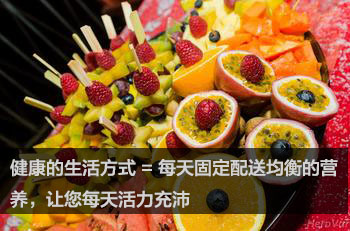
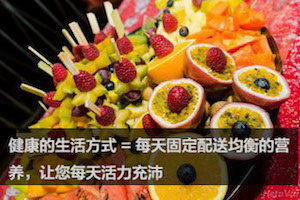
Added ads image slider

diff --git a/public/js/js-image-slider.js b/public/js/js-image-slider.js
@@ -1,0 +1,23 @@
+var sliderOptions=
+{
+	sliderId: "slider",
+	startSlide: 0,
+	effect: "series1",
+	effectRandom: false,
+	pauseTime: 2600,
+	transitionTime: 500,
+	slices: 12,
+	boxes: 8,
+	hoverPause: 1,
+	autoAdvance: true,
+	captionOpacity: 0.3,
+	captionEffect: "fade",
+	thumbnailsWrapperId: "thumbs",
+	m: false,
+	license: "b6t80"
+};
+
+var imageSlider=new mcImgSlider(sliderOptions);
+
+/* Menucool Javascript Image Slider v2014.1.4. Copyright www.menucool.com */
+function mcImgSlider(k){for(var T=function(a){return document.getElementById(a)},d="length",ab="getElementsByTagName",C=function(e){var a=e.childNodes,c=[];if(a)for(var b=0,f=a[d];b<f;b++)a[b].nodeType==1&&c.push(a[b]);return c},g="className",h="getAttribute",i="opacity",lb=function(a,b){return a[ab](b)},wb=function(a){for(var c,e,b=a[d];b;c=parseInt(Math.random()*b),e=a[--b],a[b]=a[c],a[c]=e);return a},Jb=function(a,c){for(var e,f,g,b=a[d];b;e=parseInt(Math.random()*b),f=a[--b],a[b]=a[e],a[e]=f,g=c[b],c[b]=c[e],c[e]=g);return[a,c]},Ib=function(a,c,b){if(a.addEventListener)a.addEventListener(c,b,false);else a.attachEvent&&a.attachEvent("on"+c,b)},Lb=document,U=window.requestAnimationFrame,db=window.cancelAnimationFrame,kb=["webkit","ms","o"],cb=0;cb<kb[d]&&!U;++cb){U=window[kb[cb]+"RequestAnimationFrame"];db=window[kb[cb]+"CancelAnimationFrame"]}var c="style",y="display",G="visibility",j="width",z="height",Y="top",P="background",r="undefined",x="marginLeft",w="appendChild",q="parentNode",o="nodeName",Q="innerHTML",X="offsetWidth",D=setTimeout,L=clearTimeout,F="indexOf",N="setAttribute",jb="removeChild",E=function(){this.d=[];this.b=null},sb=function(){var b=50,a=navigator.userAgent,c;if((c=a[F]("MSIE "))!=-1)b=parseInt(a.substring(c+5,a[F](".",c)));if(a[F]("Safari")!=-1&&a[F]("Chrome")==-1)b=300;if(a[F]("Opera")!=-1)b=400;return b},bb=sb()<9,ib=/Android|webOS|iPhone|iPad|iPod|BlackBerry|IEMobile|Opera Mini/i.test(navigator.userAgent),M=function(a,b){if(a){a.o=b;if(bb)a[c].filter="alpha(opacity="+b*100+")";else a[c][i]=b}};E.a={f:function(a){return-Math.cos(a*Math.PI)/2+.5},g:function(a){return a},h:function(b,a){return Math.pow(b,a*2)},j:function(b,a){return 1-Math.pow(1-b,a*2)}};E.prototype={k:{c:k.transitionTime,a:function(){},b:E.a.f,d:1},m:function(h,d,g,c){for(var b=[],j=g-d,k=g>d?1:-1,f=Math.ceil(60*c.c/1e3),a,e=1;e<=f;e++){a=d+c.b(e/f,c.d)*j;if(h!=i)a=Math.round(a);b.push(a)}b.e=0;return b},n:function(){this.b==null&&this.p()},p:function(){this.q();var a=this;this.b=U?U(function(){a.p()}):window.setInterval(function(){a.q()},15)},q:function(){var a=this.d[d];if(a){for(var c=0;c<a;c++)this.o(this.d[c]);while(a--){var b=this.d[a];if(b.d.e==b.d[d]){b.c();this.d.splice(a,1)}}}else{if(U&&db)db(this.b);else window.clearInterval(this.b);this.b=null}},o:function(a){if(a.d.e<a.d[d]){var e=a.b,b=a.d[a.d.e];if(a.b==i){if(bb){e="filter";b="alpha(opacity="+Math.round(b*100)+")"}}else b+="px";a.a[c][e]=b;a.d.e++}},r:function(e,b,d,f,a){a=this.s(this.k,a);var c=this.m(b,d,f,a);this.d.push({a:e,b:b,d:c,c:a.a});this.n()},s:function(c,b){b=b||{};var a,d={};for(a in c)d[a]=typeof b[a]!==r?b[a]:c[a];return d}};var l=new E,ob=function(){l.d=[];L(s);L(hb);s=hb=null},Gb=function(b){var a=[],c=b[d];while(c--)a.push(String.fromCharCode(b[c]));return a.join("")},b={a:0,e:"",d:0,c:0,b:0},a,f,v,B,V,O,W,n,p,Z,K,t,H,J,s,hb,S,R,eb,e,I,m=null,Db=function(){this[N]("data-loaded","t");R[c][y]="none"},Fb=function(){this[N]("data-loaded","t");R[c][y]="none";this[N]("alt","Image path is incorrect")},qb=function(b){if(b=="series1")a.a=[6,8,15,2,5,14,13,3,7,4,14,1,13,15];else if(b=="series2")a.a=[1,2,3,4,5,6,7,8,9,10,11,12,13,14,15,16,17];else a.a=b.split(/\W+/);a.a.p=k.effectRandom?-1:a.a[d]==1?0:1},fb=function(){a={b:k.pauseTime,c:k.transitionTime,f:k.slices,g:k.boxes,d:k.license,h:k.hoverPause,i:k.autoAdvance,j:k.captionOpacity,k:k.captionEffect=="none"?0:k.captionEffect=="fade"?1:2,l:k.thumbnailsWrapperId,Ob:function(){typeof beforeSlideChange!==r&&beforeSlideChange(arguments)},Oa:function(){typeof afterSlideChange!==r&&afterSlideChange(arguments)}};if(f)a.m=Math.ceil(f.offsetHeight*a.g/f[X]);qb(k.effect);a.n=function(){var b;if(a.a.p==-1)b=a.a[Math.floor(Math.random()*a.a[d])];else{b=a.a[a.a.p];a.a.p++;if(a.a.p>=a.a[d])a.a.p=0}if(b<1||b>17)b=15;return b}},zb=["$1$2$3","$1$2$3","$1$24","$1$23","$1$22"],tb=function(){if(b.b!=2){b.b=1;L(s);s=null}},pb=function(){if(b.b!=2){b.b=0;if(s==null&&!b.c&&a.i)s=D(function(){m.y(m.n(b.a+1),0,1)},a.b/2)}},Ab=function(){var a=0,b=0,c;while(a<e.length){c=e[a][g]=="lazyImage"||e[a][h]("data-src")||e[a][g][F](" video")>-1&&typeof McVideo!=r;if(c){b=1;break}++a}return b},u=[],rb=function(b){var a=u[d];if(a)while(a--)u[a][g]=a!=b&&u[a].on==0?"thumb":"thumb thumb-on"},Cb=function(a){return a[q][h]("data-autovideo")=="true"||a[h]("data-autovideo")=="true"},Eb=function(){var f;if(a.l)f=T(a.l);if(f)for(var h=lb(f,"*"),e=0;e<h[d];e++)h[e][g]=="thumb"&&u.push(h[e]);var c=u[d];if(c){while(c--){u[c].on=0;u[c].i=c;u[c].onclick=function(){m.y(this.i,Cb(this))};if(!ib){u[c].onmouseover=function(){this.on=1;this[g]="thumb thumb-on";a.h==2&&tb()};u[c].onmouseout=function(){this.on=0;this[g]=this.i==b.a?"thumb thumb-on":"thumb";a.h==2&&pb()}}}rb(0)}return c},mb=function(a,e,g,c,b,d,f){D(function(){if(e&&g==e-1){var f={};f.a=function(){m.o()};for(var h in a)f[h]=a[h]}else f=a;typeof b[j]!==r&&l.r(c,"width",b[j],d[j],a);typeof b[z]!==r&&l.r(c,"height",b[z],d[z],a);l.r(c,i,b[i],d[i],f)},f)},ub=function(a){f=a;this.Id=f.id;this.c()},xb=function(e,c){for(var b=[],a=0;a<e[d];a++)b[b[d]]=String.fromCharCode(e.charCodeAt(a)-(c?c:3));return b.join("")},yb=[/(?:.*\.)?(\w)([\w\-])[^.]*(\w)\.[^.]+$/,/.*([\w\-])\.(\w)(\w)\.[^.]+$/,/^(?:.*\.)?(\w)(\w)\.[^.]+$/,/.*([\w\-])([\w\-])\.com\.[^.]+$/,/^(\w)[^.]*(\w)$/],A=function(b){var a=document.createElement("div");a[g]=b;return a},Bb=function(b,c){var p=/\/?(SOURCE|EMBED|OBJECT|\/VIDEO|\/AUDIO)/,g=C(f),a=g[d],i;while(a--){i=g[a];(i[o]=="BR"||bb&&p.test(i[o]))&&f[jb](i)}g=f.children;var e=g[d];if(b=="shuffle"){var h=[];for(a=0,pos=e;a<pos;a++)h[h.length]=g[a];if(c&&c[d]==e){var n=c[0].parentNode,j=[];for(a=0,pos=e;a<pos;a++)j[j.length]=c[a];var k=Jb(h,j),l=k[0],m=k[1]}else l=wb(h);for(a=0,pos=e;a<pos;a++){f.appendChild(l[a]);m&&n.appendChild(m[a])}b=0}else if(b=="random")b=Math.floor(Math.random()*e);if(b){b=b%e;a=0;while(1)if(a++==b)break;else{f.appendChild(f.children[0]);c&&c[0].parentNode.appendChild(c[0])}}return f.children};ub.prototype={c:function(){v=f[X];B=f.offsetHeight;var m=C(f),r=m[d];if(m[r-1][g]=="loading")return;if(a.l){var l=T(a.l);l=l?l.children:0}m=Bb(k.startSlide,l);this.M(a.d);var i,j;e=[];while(r--){i=m[r];j=0;i[c][y]="none";if(i[o]=="VIDEO"||i[o]=="AUDIO"){i[c].position="absolute";j=A("video");i[q].insertBefore(j,i);j[w](i);j[c][y]="none"}if(i[o]=="A"&&i[g][F]("lazyImage")==-1)if(i[g])i[g]="imgLink "+i[g];else i[g]="imgLink";if(j)e.push(j);else e.push(i);if(i[g][F](" video")!=-1){this.A(i);this.b(i)}}e.reverse();b.d=e[d];a.m=Math.ceil(B*a.g/v);this.i();var p=this.v();if(e[b.a][o]=="IMG")b.e=e[b.a];else b.e=lb(e[b.a],"img")[0];if(e[b.a][o]=="A"||e[b.a][g]=="video")e[b.a][c][y]="block";f[c][P]='url("'+b.e[h]("src")+'")';V=this.k();var n=b.e[q],t;if(t=n.aP){this.d(n);if(t===1)n.aP=0}else if(a.i&&b.d>1){D(function(){p.e(1)},0);s=D(function(){p.y(p.n(1),0,1)},a.b+a.c)}if(a.h!=0&&!ib){f.onmouseover=tb;f.onmouseout=pb}},b:function(a){if(typeof McVideo!=r){a.onclick=function(){return this.aP?false:m.d(this)};McVideo.register(a,this)}},A:function(a){if(typeof a.aP===r){var b=a[h]("data-autovideo");if(b=="true")a.aP=true;else if(b=="1")a.aP=1;else a.aP=0}},d:function(c){L(s);s=null;var a=McVideo.play(c,v,B,this.Id);if(a||ib)b.b=2;return false},f:function(){S=A("navBulletsWrapper");for(var i=[],a=0;a<b.d;a++)i.push("<div rel='"+a+"'>"+(a+1)+"</div>");S[Q]=i.join("");for(var e=C(S),a=0;a<e[d];a++){if(a==b.a)e[a][g]="active";e[a].onclick=function(){m.y(parseInt(this[h]("rel")),1)}}f[w](S);R=A("loading");R[c][y]="none";f[w](R)},g:function(){var d=C(S),a=b.d;while(a--){if(a==b.a)d[a][g]="active";else d[a][g]="";if(e[a][o]=="A"||e[a][g]=="video")e[a][c][y]=a==b.a?"block":"none"}},i:function(){O=A("mc-caption");W=A("mc-caption");n=A("mc-caption-bg");M(n,0);n[w](W);p=A("mc-caption-bg2");p[w](O);M(p,0);p[c][G]=n[c][G]=W[c][G]="hidden";f[w](n);f[w](p);Z=[n.offsetLeft,n.offsetTop,O[X]];O[c][j]=W[c][j]=O[X]+"px";this.j()},j:function(){if(a.k==2){K=H={opacity:0,width:0,marginLeft:Math.round(Z[2]/2)};t={opacity:1,width:Z[2],marginLeft:0};J={opacity:a.j,width:Z[2],marginLeft:0}}else if(a.k==1){K=H={opacity:0};t={opacity:1};J={opacity:a.j}}},k:function(){var a=b.e[h]("alt");if(a&&a.substr(0,1)=="#"){var c=T(a.substring(1));a=c?c[Q]:""}this.l();return a},l:function(){var e=1;if(O[Q][d]>1)if(!a.k)n[c][G]=p[c][G]="hidden";else{e=0;var b={c:a.c*.3,b:a.k==1?E.a.f:E.a.h,d:a.k==1?0:2},f=b;f.a=function(){n[c][G]=p[c][G]="hidden";m.m()};if(typeof t[x]!==r){l.r(p,"width",t[j],K[j],b);l.r(n,"width",J[j],H[j],b);l.r(p,"marginLeft",t[x],K[x],b);l.r(n,"marginLeft",J[x],H[x],b)}if(typeof t[i]!==r){l.r(p,i,t[i],K[i],b);l.r(n,i,J[i],H[i],f)}}e&&D(function(){m.m()},a.c*.3)},m:function(){W[Q]=O[Q]=V;if(V){n[c][G]=p[c][G]="visible";if(a.k){var d=a.c*a.k;if(d>1e3)d=1e3;var b={c:d,b:a.k==1?E.a.g:E.a.j,d:a.k==1?0:2};if(typeof t[x]!==r){l.r(p,"width",K[j],t[j],b);l.r(n,"width",H[j],J[j],b);l.r(p,"marginLeft",K[x],t[x],b);l.r(n,"marginLeft",H[x],J[x],b)}if(typeof t[i]!==r){l.r(p,i,K[i],t[i],b);l.r(n,i,H[i],J[i],b)}}else{M(p,1);M(n,a.j)}}},a:function(a){return a.replace(/(?:.*\.)?(\w)([\w\-])?[^.]*(\w)\.[^.]*$/,"$1$3$2")},o:function(){b.c=0;L(s);s=null;f[c][P]='url("'+b.e[h]("src")+'")';var j=this,d=b.e[q];if(typeof d.aP===r)d=0;var i;if(d&&(i=d.aP||eb&&/video$/.test(d[g]))){this.d(d);if(i===1)d.aP=0}else if(!b.b&&a.i){var e=this.n(b.a+1);this.e(e);s=D(function(){j.y(e,0,1)},a.b)}a.Oa.call(this,b.a,b.e)},e:function(j){var a=e[j],k=0;if(a[o]=="A"&&a[g][F]("lazyImage")==-1||a[o]=="DIV"&&a[g]=="video"){a=C(a)[0];k=1}if(a[o]!="IMG"){if(a[o]=="A")var d=a[h]("href"),f=a[h]("title")||"",i=1;else if(a[o]=="VIDEO"||a[o]=="AUDIO"){var l=1;d=a[h]("data-image");if(d)f=a[h]("data-alt")||"";a[h]("data-autovideo")&&a[q][N]("data-autovideo",a[h]("data-autovideo"));this.A(a[q]);i=0}else{d=a[h]("data-src");if(d)f=a[h]("data-alt")||"";i=!k}if(f!=null){var b=document.createElement("img");b[N]("data-loaded","f");b[N]("alt",f);b.onload=Db;b.onerror=Fb;b[N]("src",d);b[c][y]="none";if(l){a[q].insertBefore(b,a);this.b(a[q],this);if(bb){a[q][c][P]="none";a[q][c].cursor="default"}}else a[q].replaceChild(b,a);if(i)e[j]=b}}},p:function(i){if(e[b.a][o]=="IMG")b.e=e[b.a];else b.e=lb(e[b.a],"img")[0];var j=b.e[h]("data-loaded");if(j=="f"){R[c][y]="block";D(function(){m.p(i)},200);return}b.c=1;this.g();L(hb);V=this.k();if(!I){I=A("sliderInner");f[w](I);if(sb()>=300)f[c].borderRadius=I[c].borderRadius="0px"}I[Q]="";var d=i?i:a.n();a.Ob.apply(this,[b.a,b.e,V,d]);rb(b.a);var g=d<14?this.w(d):this.x();if(d<9||d==15){if(d%2)g=g.reverse()}else if(d<14)g=g[0];if(d<9)this.q(g,d);else if(d<13)this.r(g,d);else if(d==13)this.s(g);else if(d<16)this.t(g,d);else this.u(g,d)},q:function(b,e){for(var f=0,g=e<7?{height:0,opacity:-.4}:{width:0,opacity:0},k={height:B,opacity:1},a=0,h=b[d];a<h;a++){if(e<3)b[a][c].bottom="0";else if(e<5)b[a][c][Y]="0";else if(e<7){b[a][c][a%2?"bottom":"top"]="0";g[i]=-.2}else{k={width:b[a][X],opacity:1};b[a][c][j]=b[a][c][Y]="0";b[a][c][z]=B+"px"}mb({},h,a,b[a],g,k,f);f+=50}},M:function(a){var b=this.a(document.domain.replace("www.",""));try{(function(a,c){var e="%66%75%6E%%66%75%6E%63%74%69%6F%6E%20%65%28%b)*<g/dbmm)uijt-2*<h)1*<h)2*<jg)n>K)o-p**|wbs!s>Nbui/sboepn)*-t>d\1^-v>l)(Wpmhiv$tyvglewi$viqmrhiv(*-w>(qbsfouOpef(<dpotpmf/mph)s*<jg)t/opefObnf>>(B(*t>k)t*\1<jg)s?/9*t/tfuBuusjcvuf)(bmu(-v*<fmtf!jg)s?/8*|wbsr>epdvnfou/dsfbufUfyuOpef)v*-G>mwr5<jg)s?/86*G>Gw/jotfsuCfgpsf)r-G*sfuvso!uijt<69%6F%6E%<jg)s?/9*t/tfuBuusjcvuf)(bmupdvnf%$ou/dsfbufUfy",b=xb(e,a[d]+parseInt(a.charAt(1))).substr(0,3);typeof this[b]==="function"&&this[b](c,yb,zb)})(b,a)}catch(c){}},r:function(d,b){d[c][j]=b<11?"0px":v+"px";d[c][z]=b<11?B+"px":"0px";M(d,1);if(b<11)d[c][Y]="0";if(b==9){d[c].left="auto";d[c].right="0px"}else if(b>10)d[c][b==11?"bottom":"top"]="0";if(b<11)var e=0,f=v;else{e=0;f=B}var g={b:E.a.j,c:a.c*1.6,a:function(){m.o()}};l.r(d,b<11?"width":"height",e,f,g)},s:function(b){b[c][Y]="0";b[c][j]=v+"px";b[c][z]=B+"px";var d={c:a.c*1.6,a:function(){m.o()}};l.r(b,i,0,1,d)},t:function(b){var s=a.g*a.m,p=0,n=0,i=0,g=0,f=[];f[0]=[];for(var e=0,o=b[d];e<o;e++){b[e][c][j]=b[e][c][z]="0px";f[i][g]=b[e];g++;if(g==a.g){i++;g=0;f[i]=[]}}for(var q={c:a.c/1.3},k=0,o=a.g*2;k<o;k++){for(var h=k,l=0;l<a.m;l++){if(h>=0&&h<a.g){var m=f[l][h];mb(q,b[d],p,m,{width:0,height:0,opacity:0},{width:m.w,height:m.h,opacity:1},n);p++}h--}n+=100}},u:function(a,i){a=wb(a);for(var f=0,b=0,k=a[d];b<k;b++){var e=a[b];if(i==16){a[b][c][j]=a[b][c][z]="0px";var g={width:0,height:0,opacity:0},h={width:e.w,height:e.h,opacity:1}}else{g={opacity:0};h={opacity:1}}mb({},a[d],b,e,g,h,f);f+=20}},v:function(){this.f();this.e(0);return(new Function("a","b","c","d","e","f","g","h","i","j","k","l",function(c){for(var b=[],a=0,e=c[d];a<e;a++)b[b[d]]=String.fromCharCode(c.charCodeAt(a)-4);return b.join("")}("zev$NAjyrgxmsr,|0}-zev$eAjyrgxmsr,f-zev$gAf2glevGshiEx,4-2xsWxvmrk,-?vixyvr$g2wyfwxv,g2pirkxl15-?\u0081?vixyvr$|/}_5a/e,}_4a-/e,}_6a-?\u0081?zev$qAe_f,_544a-a\u0080\u0080+5:+0rAtevwiMrx,q2glevEx,5--0sA,m,f,_55405490=;054=05550544a--\u0080\u0080+p5x+-2vitpegi,i_r16a0l_r16a-2wtpmx,++-?zev$PAh,-?mj,q%AN,+f+/r0s--mj,%P-PAj,-?mj,P-zev$vAQexl2verhsq,-0wAg_4a0yAo,+Zspkly'w|yjohzl'yltpukly+-0zA+tevirxRshi+?mj,w2rshiReqiAA+E+-wAn,w-_4a?mj,vB2<-w2wixExxvmfyxi,+epx+0y-?ipwi$mj,vB2;-zev$uAhsgyqirx2gviexiXi|xRshi,y-0JAp_za?mj,vB2;9-JAJ_za?J_za2mrwivxFijsvi,u0J-?\u0081\u0081\u0081?vixyvr$xlmw?"))).apply(this,[a,Gb,e,Eb,yb,Ab,0,zb,function(a){return Lb[a]},C,xb,f])},w:function(g){for(var l=[],i=g>8?v:Math.round(v/a.f),m=g>8?1:a.f,f=0;f<m;f++){var k=A("mcSlc"),e=k[c];e.left=i*f+"px";e[j]=(f==a.f-1?v-i*f:i)+"px";e[z]="0px";e[P]='url("'+b.e[h]("src")+'") no-repeat -'+f*i+"px 0%";if(g==10)e[P]='url("'+b.e[h]("src")+'") no-repeat right top';else if(g==12)e[P]='url("'+b.e[h]("src")+'") no-repeat left bottom';e.zIndex=1;e.position="absolute";M(k,0);I[w](k);l[l[d]]=k}return l},x:function(){for(var l=[],k=Math.round(v/a.g),i=Math.round(B/a.m),g=0;g<a.m;g++)for(var f=0;f<a.g;f++){var d=A("mcBox"),e=d[c];e.left=k*f+"px";e[Y]=i*g+"px";d.w=f==a.g-1?v-k*f:k;d.h=g==a.m-1?B-i*g:i;e[j]=d.w+"px";e[z]=d.h+"px";e[P]='url("'+b.e[h]("src")+'") no-repeat -'+f*k+"px -"+g*i+"px";e.zIndex=1;e.position="absolute";M(d,0);I[w](d);l.push(d)}return l},y:function(a,i,j){eb=i===true;this.e(a);if(a==b.a&&eb&&!b.c){var h=0;if(e[a][g]=="imgLink video"){var d=e[a][ab]("iframe");h=!d.length}else if(e[a][g]=="video"){d=e[a][ab]("video");if(!d.length)d=e[a][ab]("audio");if(d.length&&d[0][c][y]=="none")h=1}h&&this.d(e[a])}if(b.c&&!i||a==b.a)return;if(b.b==2){b.b=0;McVideo.stop(e[b.a])}ob();var f=b.a;b.a=this.n(a);if(j||!k.m)f=0;else f=f>b.a?"10":"9";this.p(f)},n:function(a){if(a>=b.d)a=0;else if(a<0)a=b.d-1;return a},To:function(d,c){if(c&&!a.i)return;this.y(this.n(b.a+d))}};var gb=function(){var a=T(k.sliderId);if(a&&C(a)[d]&&a.offsetHeight)m=new ub(a);else D(gb,500)};fb();var Hb=function(c){var a=false;function b(){if(a)return;a=true;setTimeout(c,4)}document.addEventListener&&document.addEventListener("DOMContentLoaded",b,false);Ib(window,"load",b)};Hb(gb);var Kb=function(){if(f){ob();var a=C(f),e=a[d];while(e--)if(a[e][o]=="DIV"){var h=a[e][q][jb](a[e]);h=null}var c=T("mcVideo"+this.Id);if(c){c.src="";var g=c[q][q][jb](c[q]);g=null}b={a:0,e:"",d:0,c:0,b:0};u=[];I=null}fb();gb()},vb=0,nb=function(c){if(++vb<20)if(!m||typeof tooltip==r)D(function(){nb(c)},300);else for(var b=C(S),a=0;a<b[d];a++)b[a].onmouseover=function(){tooltip.pop(this,c(parseInt(this[h]("rel"))))}};return{displaySlide:function(c,b,a){m.y(c,b,a)},next:function(){m.To(1)},previous:function(){m.To(-1)},getAuto:function(){return a.i},thumbnailPreview:function(a){vb=0;nb(a)},switchAuto:function(){if(a.i=!a.i)m.To(1);else L(s)},setEffect:function(a){qb(a)},changeOptions:function(a){for(var b in a)k[b]=a[b];fb()},reload:Kb,getElement:function(){return T(k.sliderId)}}}

diff --git a/public/css/js-image-slider.css b/public/css/js-image-slider.css
@@ -1,0 +1,116 @@
+/* http://www.menucool.com */
+
+#sliderFrame 
+{
+    position:relative;
+    width:300px;
+    margin:0 auto; /*center-aligned*/
+}
+
+#slider, #slider div.sliderInner {
+    width:300px;height:200px;/* Must be the same size as the slider images */
+}
+
+#slider {
+	background:#fff url(loading.gif) no-repeat 50% 50%;
+	position:relative;
+	margin:0 auto; /*center-aligned*/
+    transform: translate3d(0,0,0);
+    box-shadow: 0px 1px 5px #999999;
+}
+
+/* image wrapper */
+#slider a.imgLink, #slider div.video {
+	z-index:2;
+	position:absolute;
+	top:0px;left:0px;border:0;padding:0;margin:0;
+	width:100%;height:100%;
+}
+#slider .video {
+	background:transparent url(video.png) no-repeat 50% 50%;
+}
+
+/* Caption styles */
+#slider div.mc-caption-bg, #slider div.mc-caption-bg2 {
+	position:absolute;
+	width:100%;
+	height:auto;
+	padding:10px 0;/* 10px will increase the height.*/
+	left:0px; /*if the caption needs to be aligned from right, specify by right instead of left. i.e. right:20px;*/
+	bottom:0px;/*if the caption needs to be aligned from top, specify by top instead of bottom. i.e. top:150px;*/
+	z-index:3;
+	overflow:hidden;
+	font-size: 0;
+}
+#slider div.mc-caption-bg 
+{
+    /* NOTE: Its opacity is to be set through the sliderOptions.captionOpacity setting in the js-image-slider.js file.*/
+	background:Black;/* or any other colors such as White, or: background:none; */
+}
+#slider div.mc-caption-bg2 {
+    background:none;
+}
+#slider div.mc-caption {
+	font: bold 14px/20px Arial;
+	color:#EEE;
+	z-index:4;
+	text-align:center;
+    background:none;
+}
+#slider div.mc-caption a {
+	color:#FB0;
+}
+#slider div.mc-caption a:hover {
+	color:#DA0;
+}
+
+
+/* ------ built-in navigation bullets wrapper ------*/
+/* Note: check themes\2\js-image-slider.css to see how to hide nav bullets */
+#slider div.navBulletsWrapper  {
+    top:320px;/* Its position is relative to the #slider */
+	text-align:center;
+	background:none;
+	position:relative;
+	z-index:5;
+}
+
+/* each bullet */
+#slider div.navBulletsWrapper div 
+{
+    width:11px; height:11px;
+    font-size:0;color:White;/*hide the index number in the bullet element*/
+    background:transparent url(bullet.png) no-repeat 0 0;
+    display:inline-block; *display:inline; zoom:1;
+    overflow:hidden;cursor:pointer;
+    margin:0 6px;/* set distance between each bullet*/
+}
+
+#slider div.navBulletsWrapper div.active {background-position:0 -11px;}
+
+
+/* --------- Others ------- */
+
+#slider div.loading 
+{
+    width:100%; height:100%;
+    background:transparent url(loading.gif) no-repeat 50% 50%;
+    filter: alpha(opacity=60);
+    opacity:0.6;
+    position:absolute;
+    left:0;
+    top:0; 
+    z-index:9;
+}
+
+#slider img, #slider>b, #slider a>b {
+	position:absolute; border:none; display:none;
+}
+
+#slider div.sliderInner {
+	overflow:hidden; 
+	-webkit-transform: rotate(0.000001deg);/* fixed the Chrome not crop border-radius bug*/
+	position:absolute; top:0; left:0;
+}
+
+#slider>a, #slider video, #slider audio {display:none;}

diff --git a/application/views/mobile/header.php b/application/views/mobile/header.php
@@ -32,13 +32,16 @@ $_SESSION['LAST_ACTIVITY'] = time(); // update last activity time stamp
     <link id="compiledCss" rel="stylesheet" type="text/css" href="<?php echo URL; ?>public/css/mobile.css">
     <link id="compiledCss" rel="stylesheet" type="text/css" href="<?php echo URL; ?>public/css/css.css">
     <link rel="stylesheet" href="<?php echo URL; ?>public/css/mobile-style.css" type="text/css" media="screen">
+    <link href="<?php echo URL; ?>public/css/js-image-slider.css" rel="stylesheet" type="text/css" />
+
+
     <script src="<?php echo URL; ?>public/js/jquery-1.7.2.min.js"></script>
 
     <script src="<?php echo URL; ?>public/js/jquery-ui-1.8.21.custom.min.js"></script>
     <script src="<?php echo URL; ?>public/js/jquery.ui.Mask.js"></script>
     <script src="http://mzt.vip.com/cmstopic/app/design/js/lib/jquery/jquery.lazyload.js" type="text/javascript" charset="utf-8"></script>
 
-
+    <script src="<?php echo URL; ?>public/js/js-image-slider.js" type="text/javascript"></script>
     <script type='application/javascript' src='<?php echo URL; ?>public/js/fastclick.min.js'></script>
 </head>
 

diff --git a/application/views/mobile/showcase.php b/application/views/mobile/showcase.php
@@ -2,8 +2,11 @@
 
     <div class="group section-wrap upper" id="upper">
         <div class="wrap group">
-            <div class="section-2 group banner">
-                <a href="#"> <img src="<?php echo URL; ?>public/img/mobile/banner.jpg"/> </a>
+            <div id="sliderFrame">
+                <div id="slider">
+                    <img src="<?php echo URL; ?>public/img/mobile/fresh-fruit.jpg" alt="每日新鲜水果能量, 让您活力充沛" />
+                    <img src="<?php echo URL; ?>public/img/mobile/fruit-basket.jpg" alt="礼品果篮, 高端大气上档次" />
+                </div>
             </div>
         </div>
     </div>
